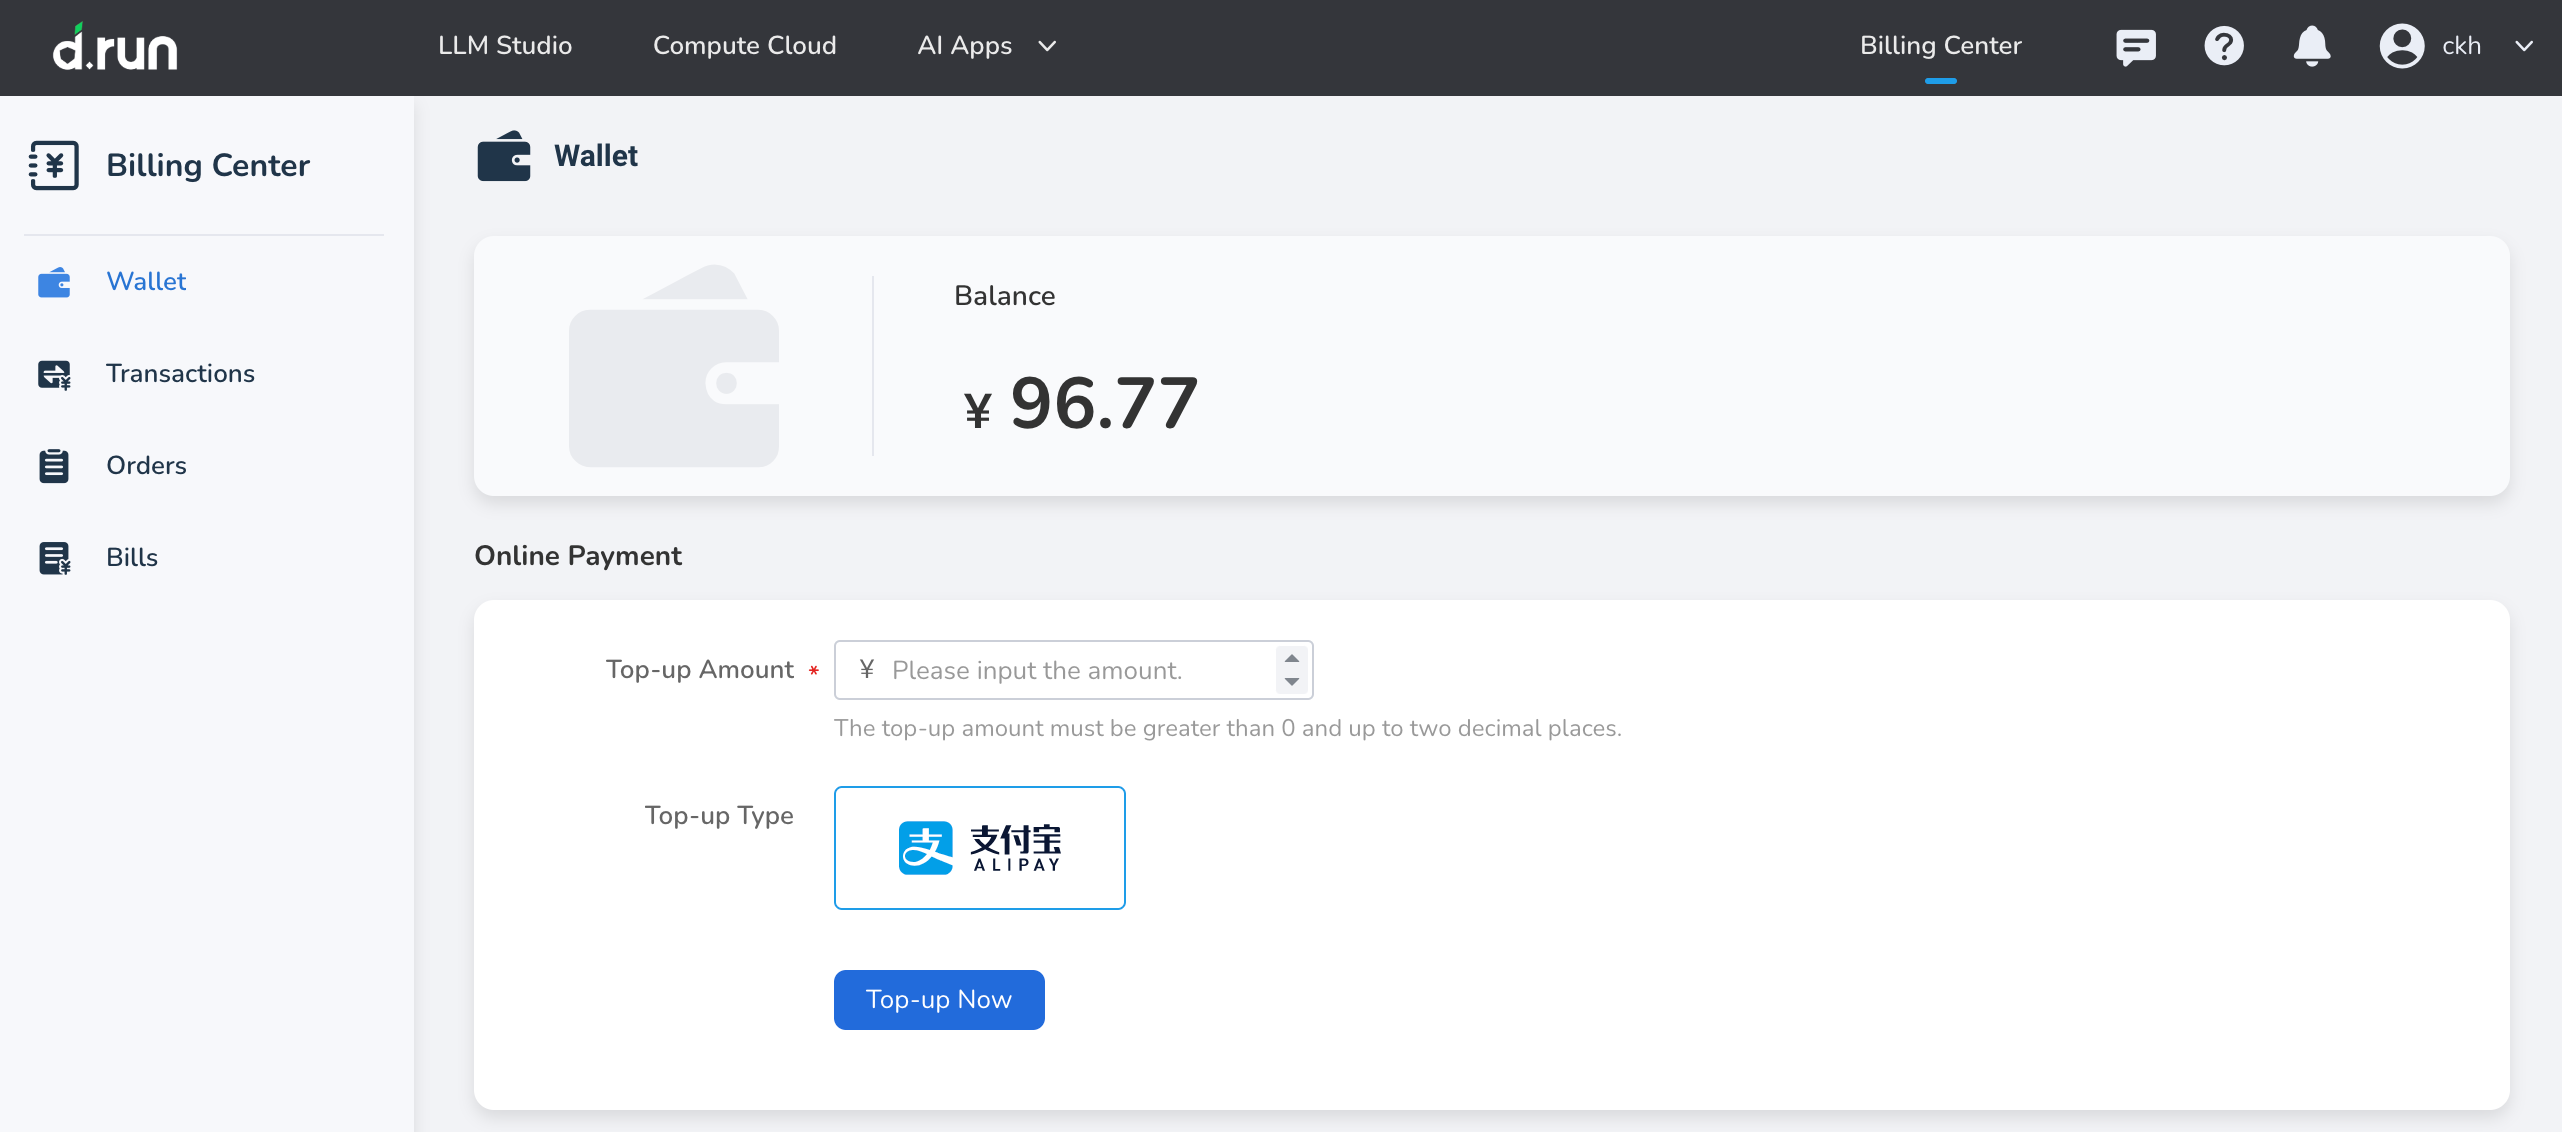
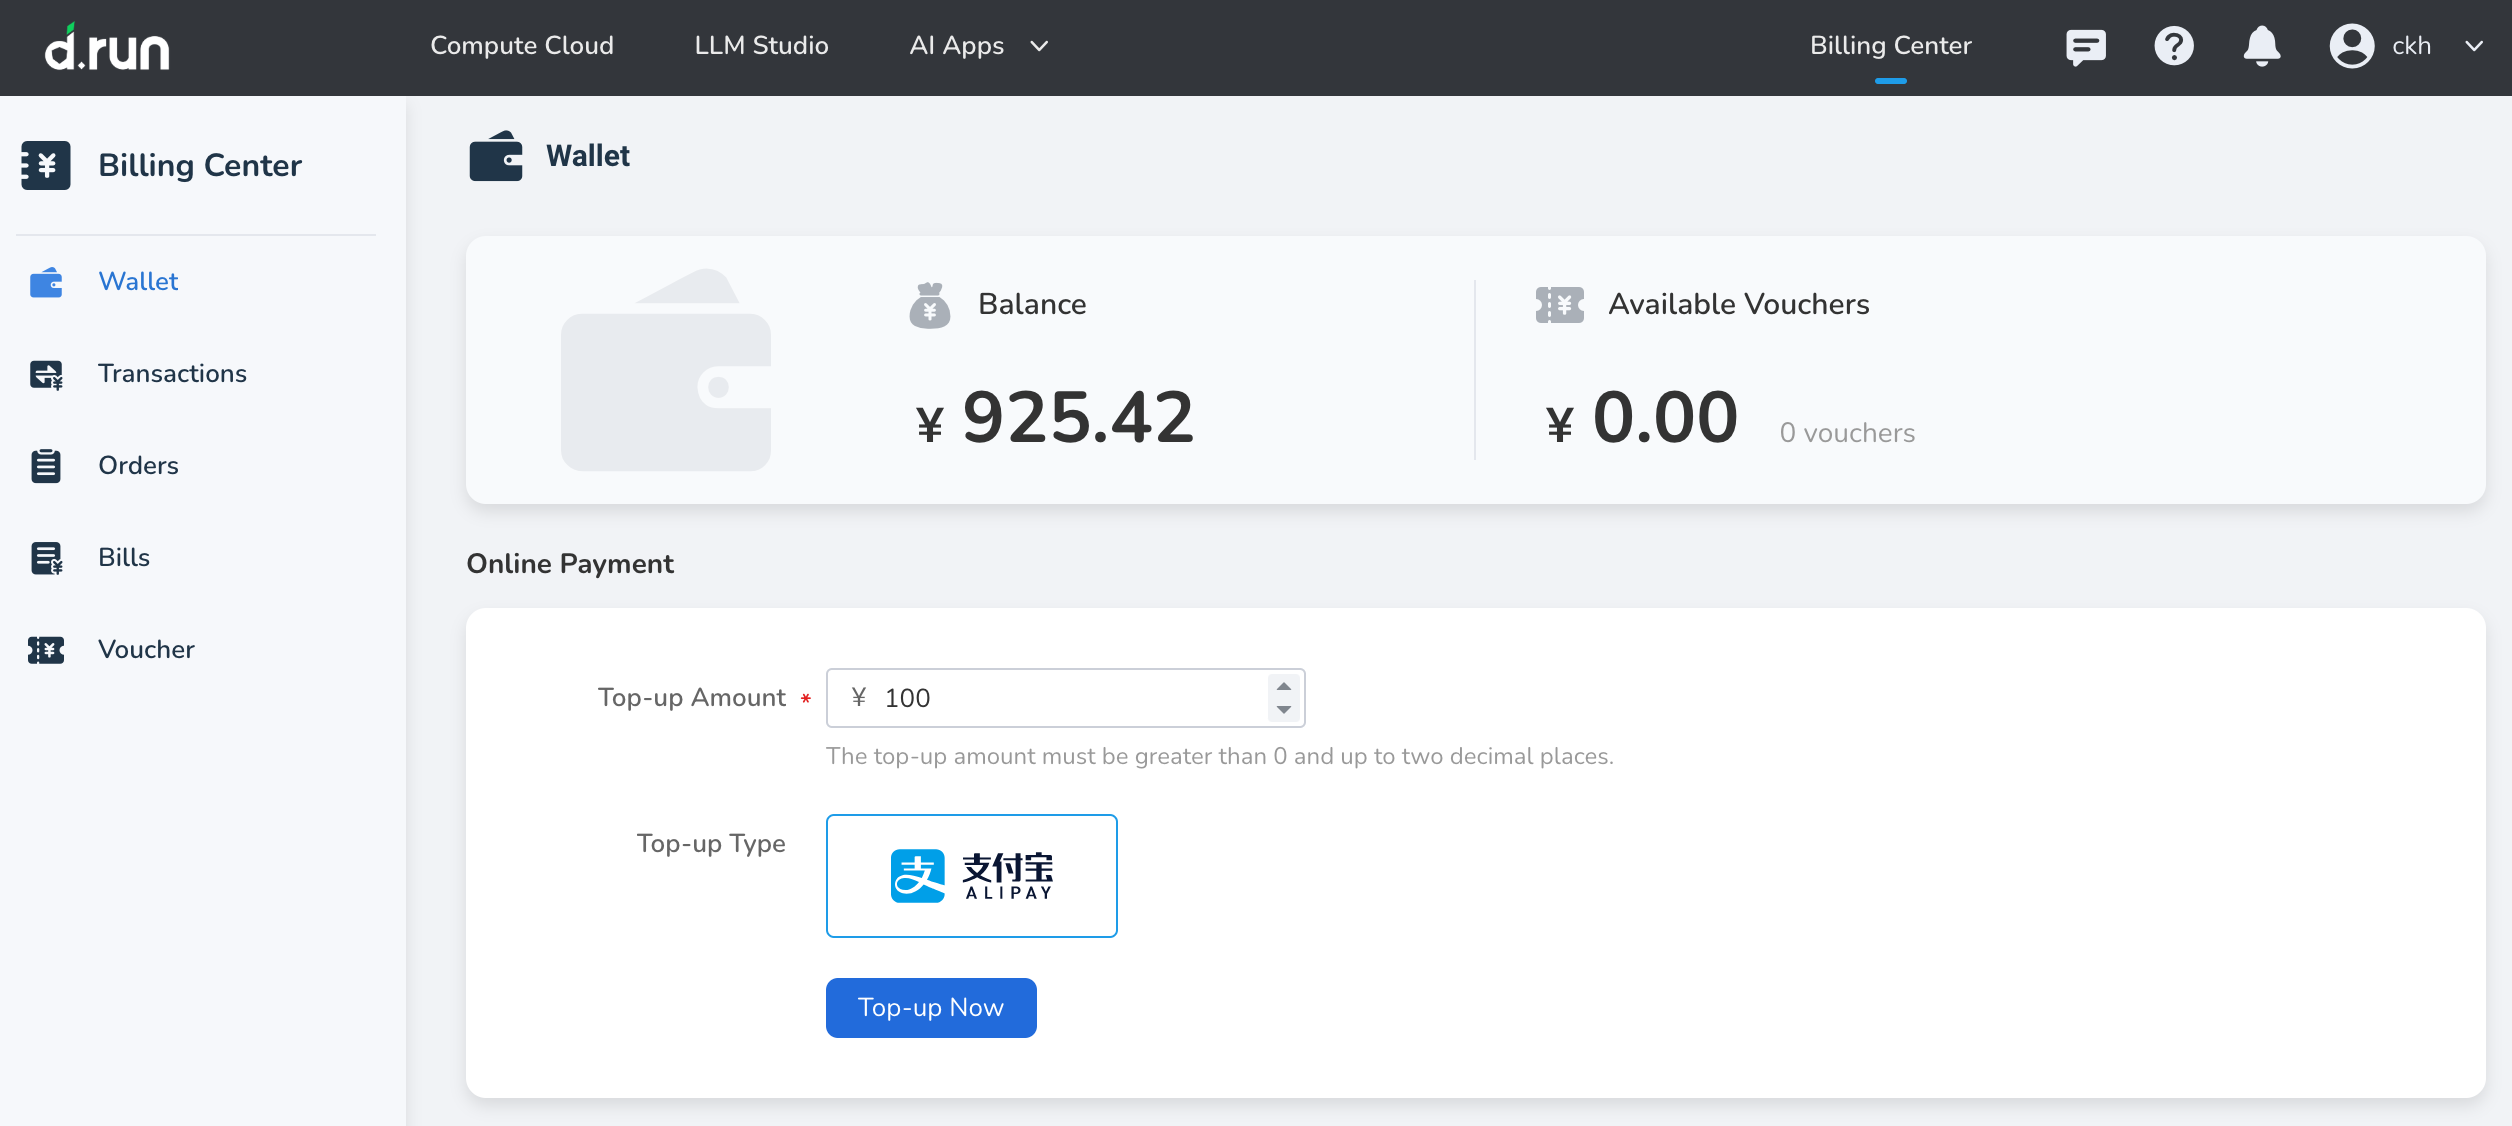
update leopard/index.md

diff --git a/docs/zh/docs/en/leopard/index.md b/docs/zh/docs/en/leopard/index.md
@@ -5,7 +5,7 @@ hide:
 
 # Wallet
 
-The expense center serves as a one-stop financial platform, providing functions such as top-up, expense viewing, and bill details. Users can monitor the consumption of various resources in real-time, clearly understand bill details, usage, and payment status, helping enterprises optimize resource allocation, control costs, and improve financial transparency.
+The expense center serves as a one-stop financial platform, providing functions such as top-up, expense viewing, bill and voucher details. Users can monitor the consumption of various resources in real-time, clearly understand bill details, usage, and payment status, helping enterprises optimize resource allocation, control costs, and improve financial transparency.
 
 You can top-up your account online in the **Wallet** , and the top-up amount can be used to purchase various products on the platform.
 

diff --git a/docs/zh/docs/leopard/index.md b/docs/zh/docs/leopard/index.md
@@ -5,7 +5,7 @@ hide:
 
 # 钱包
 
-费用中心是作为一站式财务管理平台，提供充值、费用查看、账单明细等功能。
+费用中心是作为一站式财务管理平台，提供充值、费用查看、账单明细、代金券等功能。
 用户可以实时监控各项资源的消费情况，清晰了解账单详情、使用量和支付情况，
 帮助企业优化资源配置、控制成本并提高财务透明度。
 
